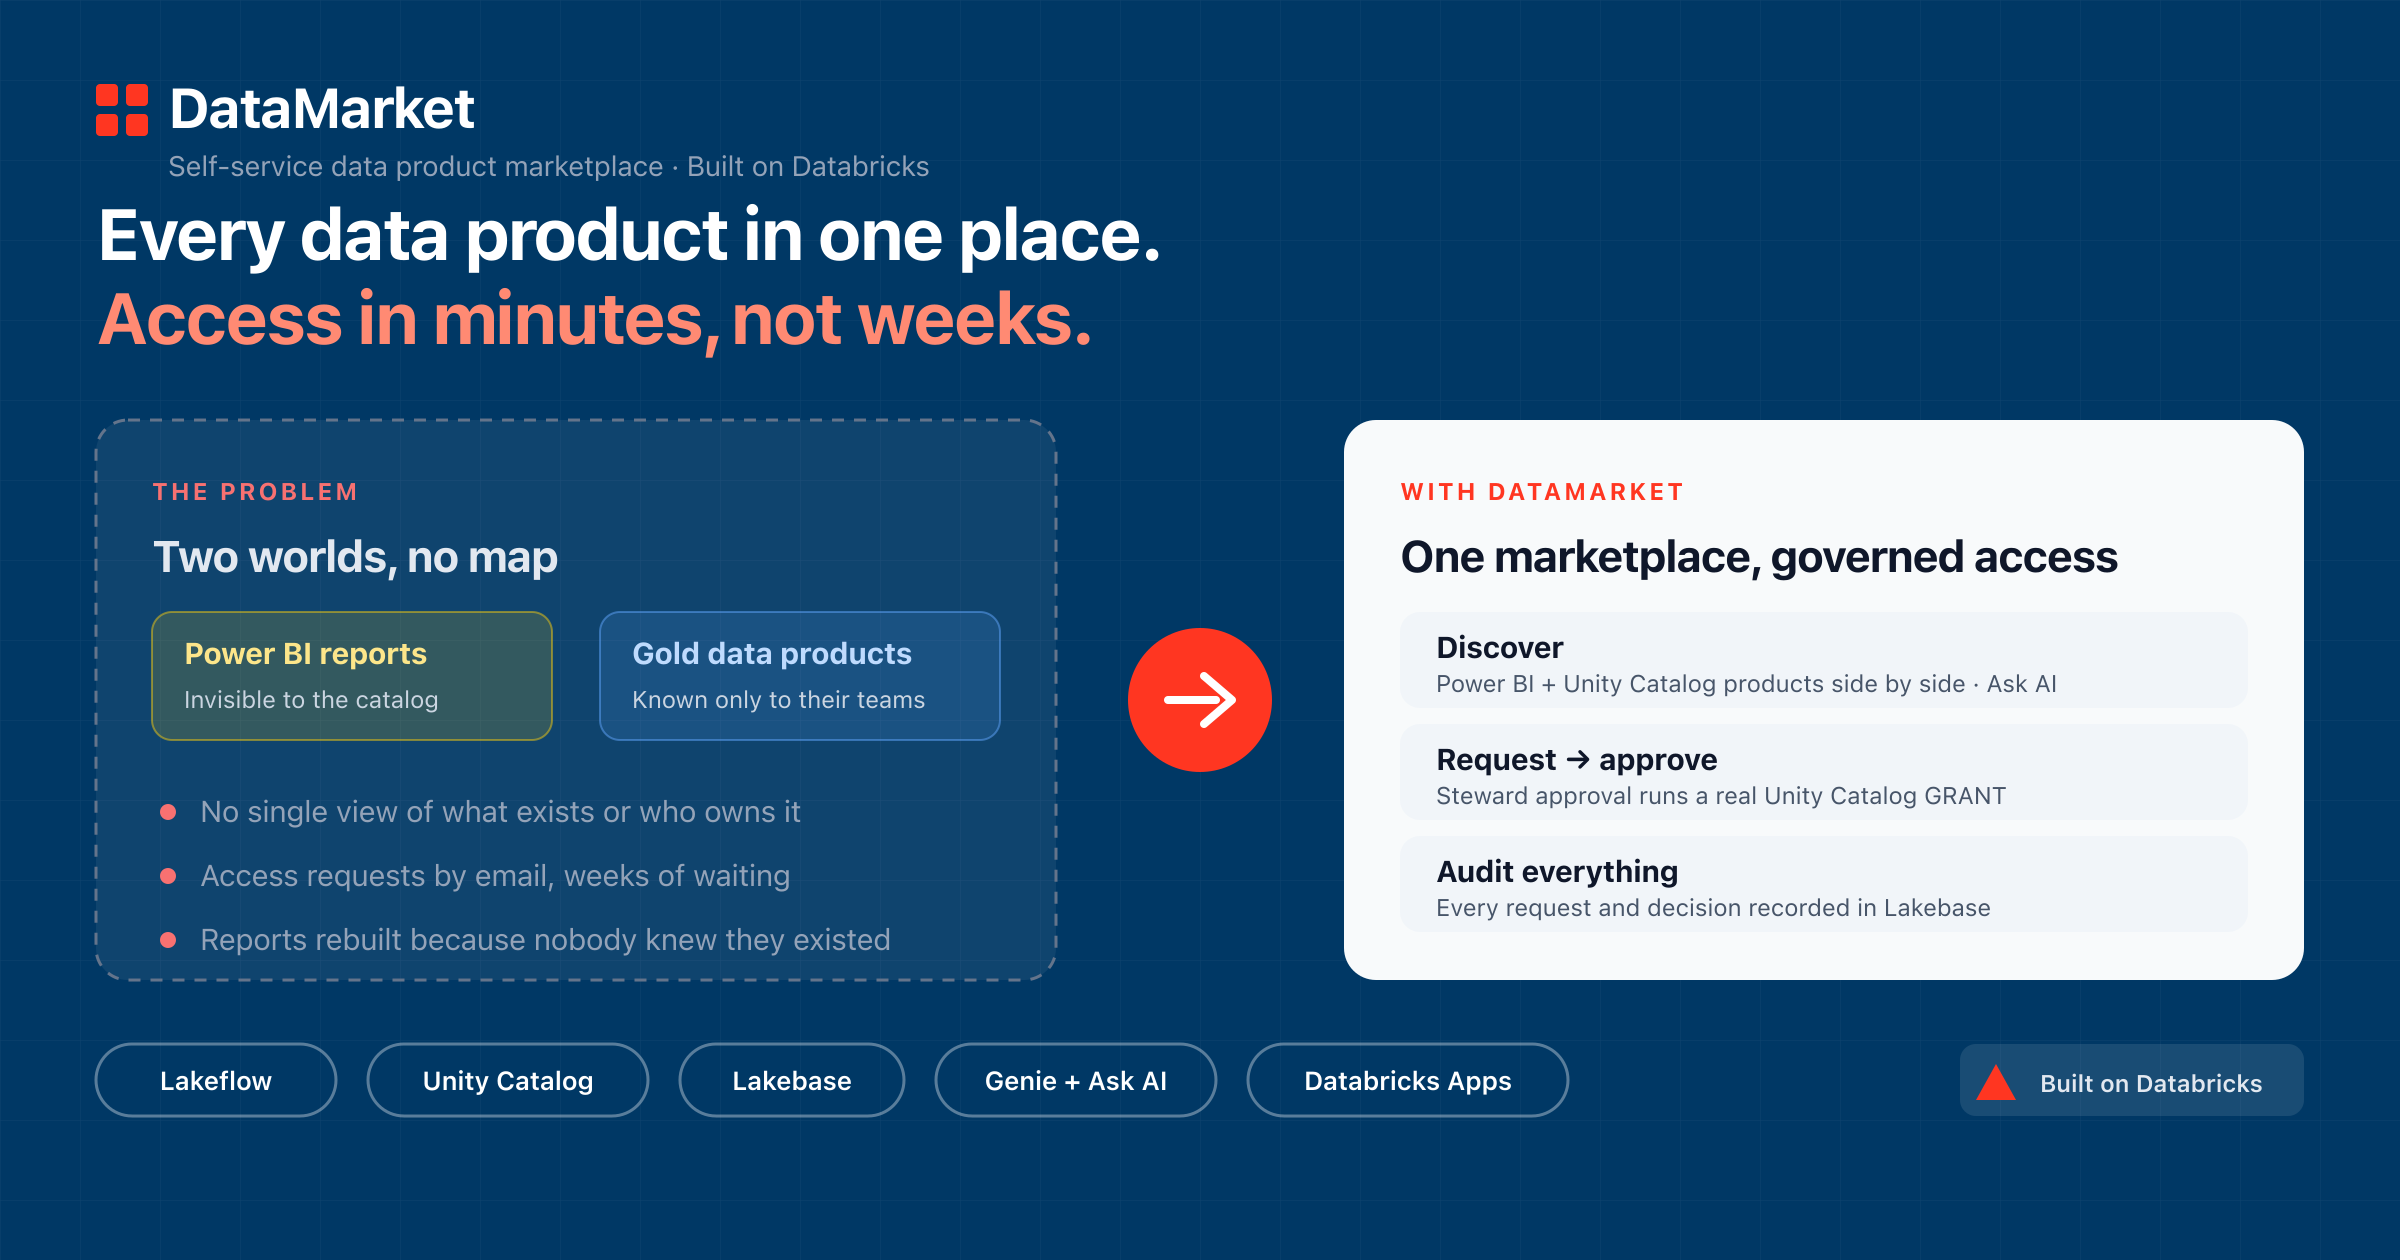
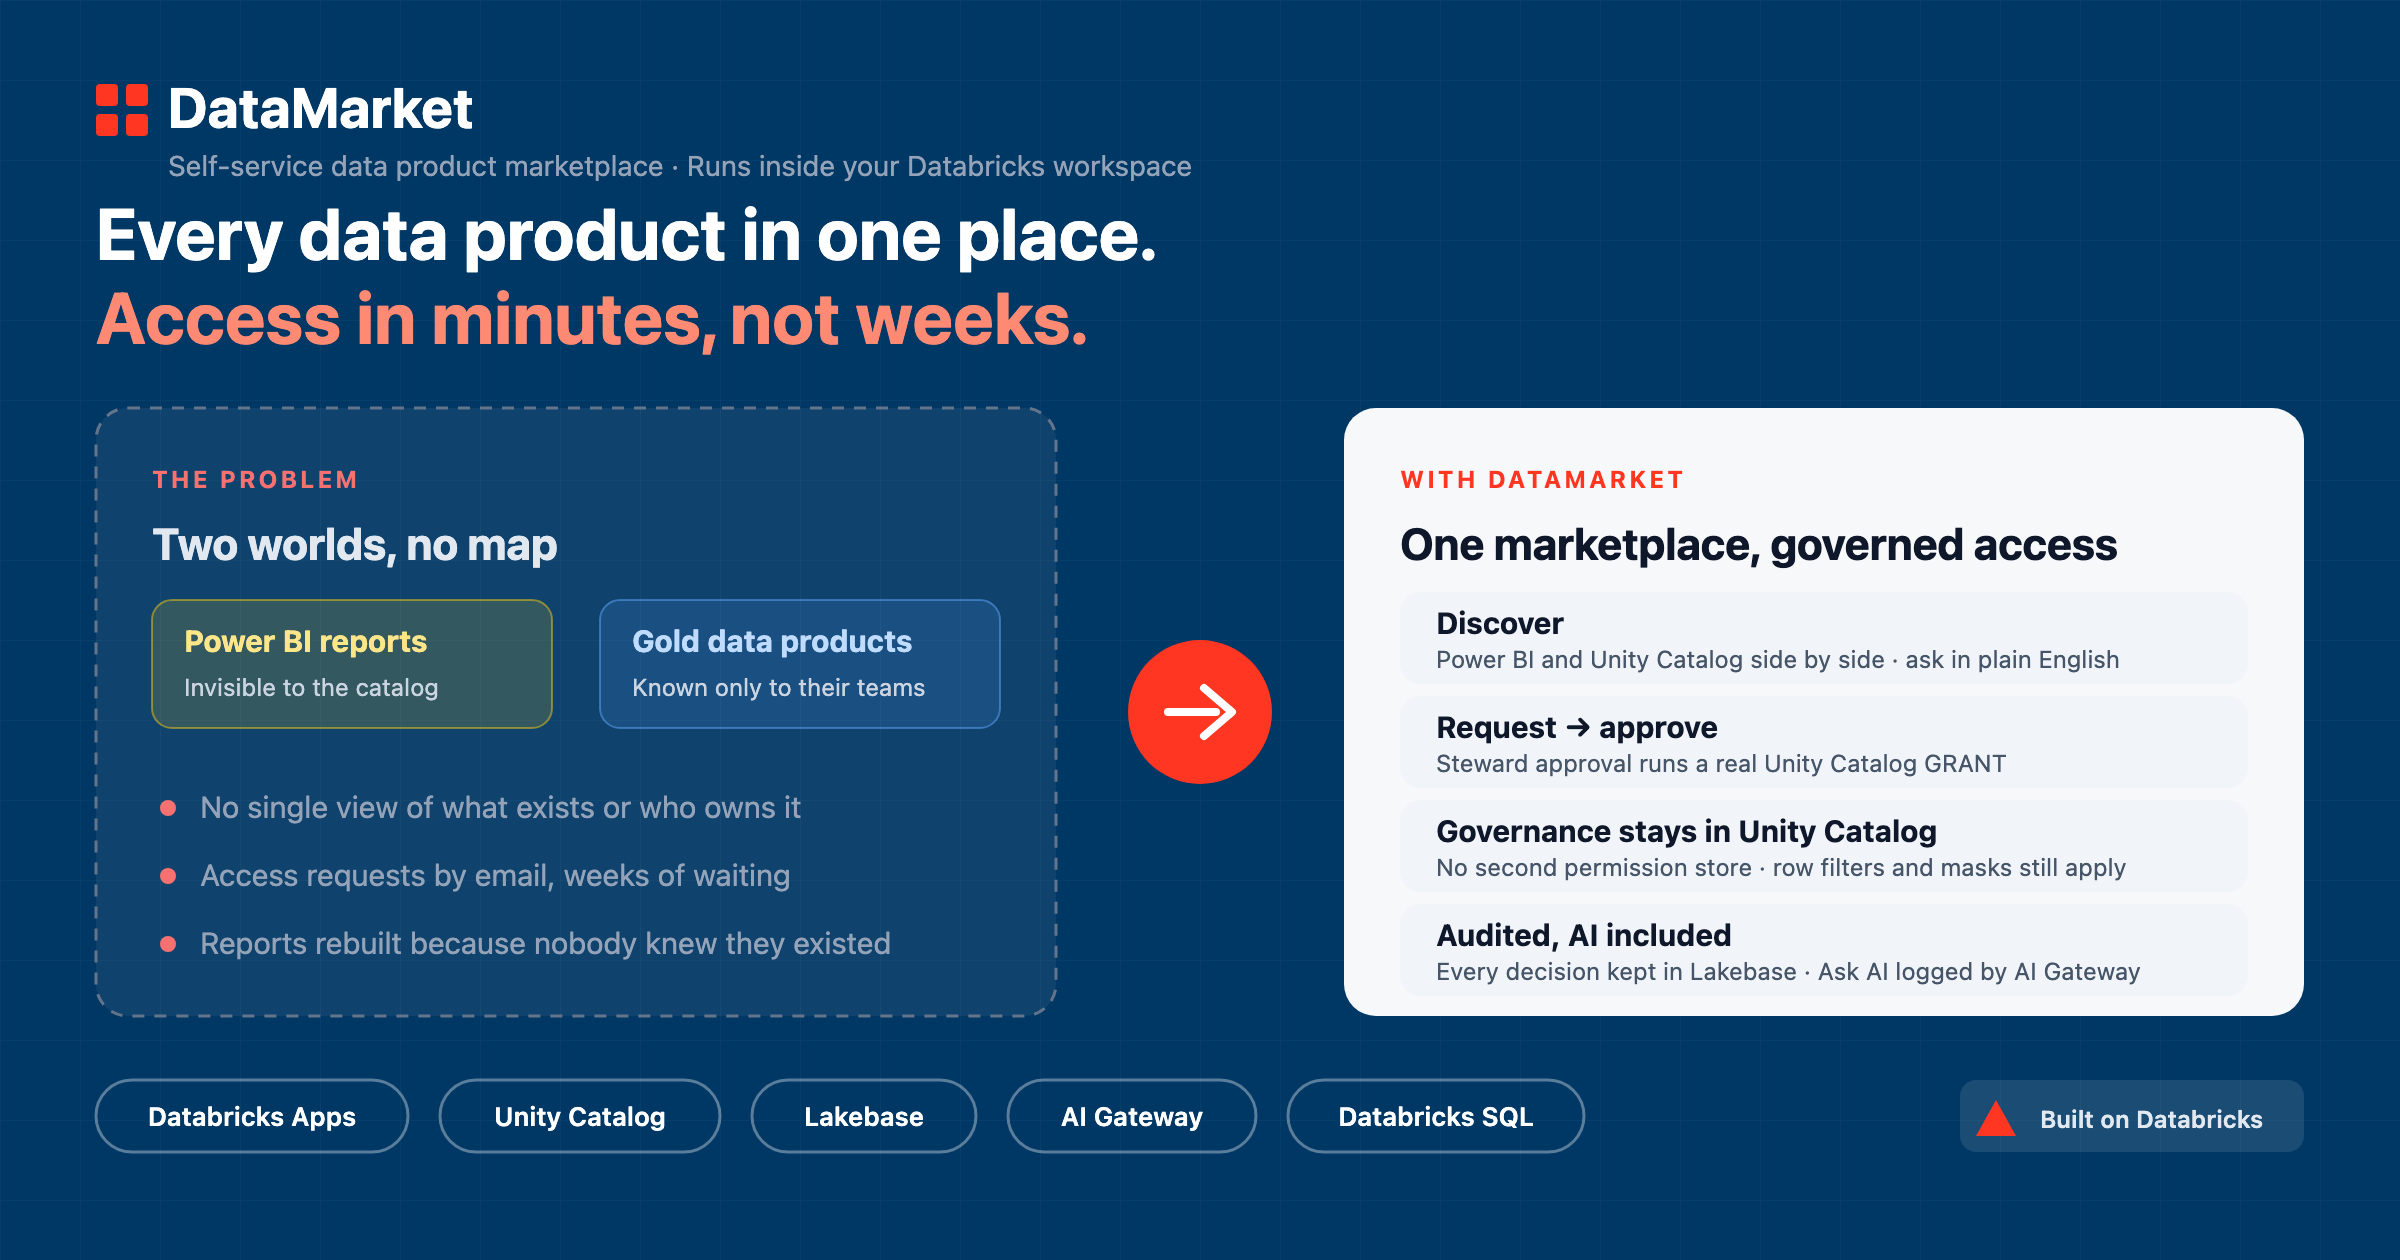
Landing visual and README match what DataMarket actually runs on
- Thumbnail: drop Lakeflow (unused) and Genie; chips are Apps, Unity Catalog,
  Lakebase, AI Gateway, Databricks SQL. Add 'governance stays in Unity Catalog'
  and AI Gateway logging; say it runs inside your workspace
- README: psql is required, wizard has 5 steps, Power BI requests are tracked
  rather than granted, Ask AI via AI Gateway model service, settings table name

diff --git a/README.md b/README.md
@@ -20,11 +20,11 @@ So we built a prototype on Databricks alone. DataMarket catalogs Power BI report
 ## What It Does
 
 - **Data Catalog** — One searchable catalog for Unity Catalog datasets, AI/BI dashboards, Genie spaces, ML models, and external BI (Power BI, Tableau), with domain filters, classification tags, and per-user access status
-- **Access Request Workflow** — Business users request access with a justification; requests persist to Lakebase Postgres and trigger optional RFA notifications
+- **Access Request Workflow** — Business users request access with a justification; requests persist to Lakebase Postgres. For Unity Catalog data, approval grants access directly; for external BI such as Power BI, the request and decision are tracked and the report owner grants access in that tool
 - **Admin Approval Queue** — Data stewards approve/deny requests; each approval executes a real Unity Catalog `GRANT SELECT` via the SQL Statement Execution API
 - **UC Import** — Browse Unity Catalog (catalog → schema → table) in-app and bulk-register tables as data products in seconds
 - **Data Schema & Sensitivity** — Live column schema from Unity Catalog. Sensitivity comes from a column's `sensitivity` tag when set, otherwise it's inferred from the column name and labeled as inferred
-- **Ask AI** — Natural language data discovery backed by any Databricks serving endpoint (defaults to FMAPI Llama 3.3-70B; point it at a Mosaic AI Gateway endpoint in Settings for central governance)
+- **Ask AI** — Natural-language data discovery. Sends catalog metadata only, never table rows. Defaults to the pay-per-token Llama 3.3-70B endpoint; for governed AI, point it at an AI Gateway model service (`catalog.schema.service`) with payload logging, rate limits and guardrail policies. Questions a guardrail blocks are shown to the user with the policy's reason
 - **Insights** — Curated gallery of AI/BI dashboards with access-gated "Open" buttons
 - **My Data** — Each user's approved data products and request history, with expiry dates and Explore / Copy SQL shortcuts
 - **Audit Trail** — Every action (request, approve, deny, revoke) logged persistently to Lakebase
@@ -48,7 +48,9 @@ Databricks App (Serverless Node.js / Express)
   ─ access_requests             ─ GRANT/REVOKE enforcement
   ─ audit_log
         │
-  FMAPI (Llama 3.3-70B) · AI/BI Dashboards · Genie Space (optional)
+  Ask AI → AI Gateway model service or FMAPI endpoint (metadata only)
+  Approvals → Databricks SQL warehouse runs GRANT / REVOKE
+  AI/BI Dashboards · Genie Space (optional)
 ```
 
 ---
@@ -62,7 +64,7 @@ Databricks App (Serverless Node.js / Express)
 | Database (OLTP) | Lakebase Autoscaling (Databricks managed Postgres) |
 | Data / Governance | Unity Catalog (Delta tables, RBAC, ABAC column masking) |
 | Hosting | Databricks Apps (serverless, SSO auth baked in) |
-| AI Features | Configurable serving endpoint (default FMAPI Llama 3.3-70B; Mosaic AI Gateway supported), optional Genie Space + AI/BI Dashboards |
+| AI Features | AI Gateway model service (payload logging, rate limits, guardrails) or a serving endpoint (default FMAPI Llama 3.3-70B); optional Genie Space + AI/BI Dashboards |
 
 ---
 
@@ -72,7 +74,7 @@ Databricks App (Serverless Node.js / Express)
 
 > **Full guide:** [`docs/deploy_guide.md`](docs/deploy_guide.md)
 
-**Prerequisites:** Databricks CLI, Node.js ≥ 18, python3. (`psql` optional — only needed for manual schema inspection.)
+**Prerequisites:** Databricks CLI, Node.js ≥ 18, python3, and `psql` (`brew install postgresql@16`). Without `psql` the script skips the Lakebase setup the app needs to sign in to its database.
 
 ```bash
 # 1. Clone
@@ -97,6 +99,7 @@ The script handles everything automatically: workspace URL detection, Lakebase c
   --demo-mode      false           # default — real SSO + UC grants
   --lakebase-project datamarket    # default Lakebase project name
   --app-name       datamarket      # default app name / workspace folder
+  --ask-ai-gateway main.datamarket # optional — create a governed AI Gateway model service for Ask AI
 ```
 
 Run `./deploy.sh --help` for all flags.
@@ -105,12 +108,13 @@ Run `./deploy.sh --help` for all flags.
 
 ## After Deploying
 
-The app launches a **4-step setup wizard** on first login that walks you through:
+The app launches a **5-step setup wizard** on first login that walks you through:
 
 1. **SQL Warehouse** — paste or confirm your warehouse ID (auto-detected if possible)
 2. **Catalog access** — checks SP permissions across all UC catalogs; click "Grant access automatically" to run `USE CATALOG + USE SCHEMA + SELECT ON CATALOG` for any that need it — covers all current and future schemas with no per-schema configuration
 3. **Import data** — browse UC catalog tree and select tables to register as data products
-4. **You're live** — wizard closes, catalog is populated
+4. **Ask AI** — sends a test question and shows what governs Ask AI: payload logging, rate limits and guardrails
+5. **You're live** — wizard closes, catalog is populated
 
 > **Admin access is automatic.** The deployer's email is auto-promoted to admin on first SSO login — no manual `app.yaml` editing required.
 
@@ -149,14 +153,14 @@ src/app/
 │   ├── users.js     # Identity resolution, user management, SCIM display names
 │   ├── insights.js  # Dashboard gallery
 │   ├── demo.js      # Demo data reset
-│   └── ask-catalog.js  # FMAPI natural language → catalog answer
+│   └── ask-catalog.js  # Ask AI: natural language → catalog answer, via AI Gateway or FMAPI
 └── src/
     ├── App.jsx
     ├── context/
     │   ├── PersonaContext.jsx      # Identity state (real SSO or demo persona)
     │   └── AppConfigContext.jsx    # Branding config from /api/portal/config
     ├── components/
-    │   ├── FirstRunWizard.jsx      # 4-step onboarding wizard
+    │   ├── FirstRunWizard.jsx      # 5-step onboarding wizard
     │   ├── ImportUCModal.jsx       # UC catalog tree browser + bulk import
     │   └── layout/
     │       └── DataMarketLayout.jsx
@@ -191,7 +195,7 @@ schema/
 | `access_requests` | Requests with status, reason, UC grant SQL, expiry |
 | `audit_log` | Every submit/approve/deny/revoke action |
 | `user_library` | Per-user pinned and approved products |
-| `app_settings` | Key/value store for in-app configuration (name, logo, warehouse ID, etc.) |
+| `settings` | Key/value store for in-app configuration (name, logo, warehouse ID, etc.) |
 
 ---
 
@@ -218,7 +222,8 @@ schema/
 | `POST` | `/api/portal/admin/import-uc` | Bulk import selected UC tables as data products |
 | `GET` | `/api/portal/admin/uc-access-check` | Check SP access across all UC catalogs |
 | `POST` | `/api/portal/admin/uc-run-grants` | Auto-execute UC grants for inaccessible catalogs |
-| `POST` | `/api/portal/ask-catalog` | FMAPI natural language → catalog answer |
+| `POST` | `/api/portal/ask-catalog` | Ask AI: natural language → catalog answer |
+| `GET` | `/api/portal/admin/ask-ai-check` | Test Ask AI and report its governance (setup wizard) |
 
 ---
 
@@ -228,8 +233,8 @@ schema/
 |---|---|---|
 | Cost | $500K–$1M+ licensing + implementation | Included in your Databricks investment |
 | Data ownership | Data piped into vendor layer | Stays in Unity Catalog |
-| Access control | Vendor UI + separate policy | UC GRANT/REVOKE, enforced at engine |
-| AI features | Add-on / roadmap | FMAPI + Genie, live day one |
+| Access control | Vendor UI + separate policy | UC GRANT/REVOKE, enforced at engine — no second permission store; row filters and column masks still apply |
+| AI features | Add-on / roadmap | Ask AI on day one, governed by AI Gateway (logging, rate limits, guardrails) |
 | Infrastructure | Containers, VMs to manage | Serverless Databricks Apps |
 | Login | New identity system | Existing SSO (Entra ID / SAML) |
 | Audit trail | Internal to vendor | Persistent Postgres, SQL-queryable |

diff --git a/docs/consumption_model.md b/docs/consumption_model.md
@@ -9,7 +9,7 @@ This solution is built entirely on Databricks platform services. Every interacti
 | **Application Hosting** | Databricks Apps (serverless) | Zero infra management, scales to zero |
 | **Data Governance** | Unity Catalog | RBAC, lineage, tagging, Delta tables |
 | **OLTP Workflows** | Lakebase (managed Postgres) | Access requests, approvals, audit log |
-| **Ask AI / NL Discovery** | Configurable serving endpoint — default Foundation Model APIs (Llama 3.3-70B), or a Mosaic AI Gateway endpoint | Natural language → catalog answers |
+| **Ask AI / NL Discovery** | Default Foundation Model APIs (Llama 3.3-70B, pay-per-token), or an AI Gateway model service on the same models — still pay-per-token, with its usage separable in `system.serving.endpoint_usage` | Natural language → catalog answers |
 | **Dashboards** | AI/BI Dashboards (Lakeview) | Serverless SQL Warehouse backed |
 | **AI Metadata** | Foundation Model APIs (`ai_gen`) | AI-generated descriptions on data products |
 
